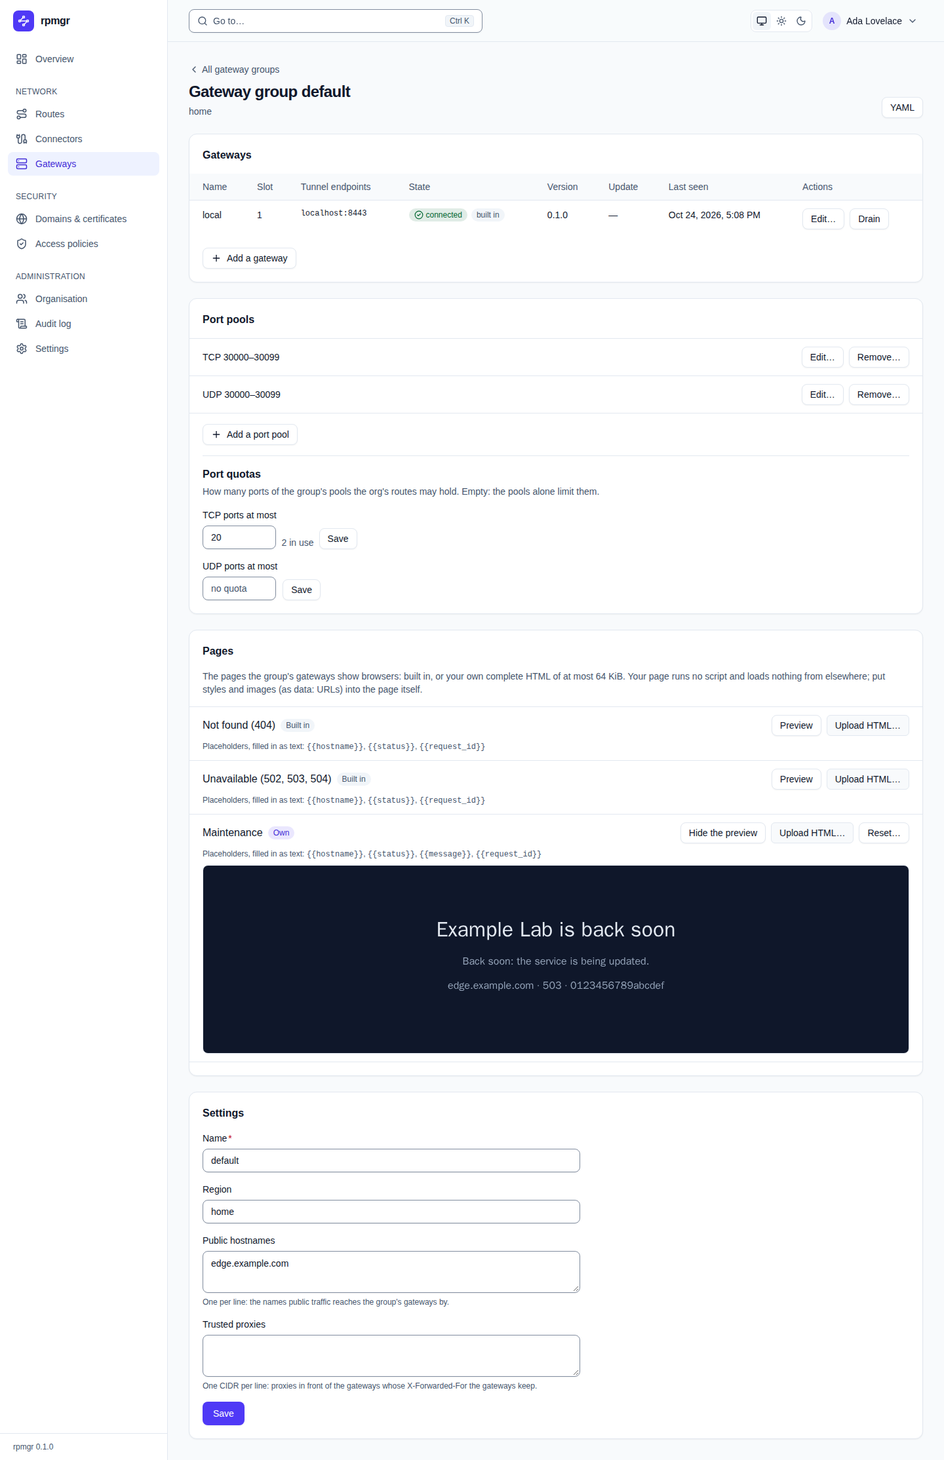
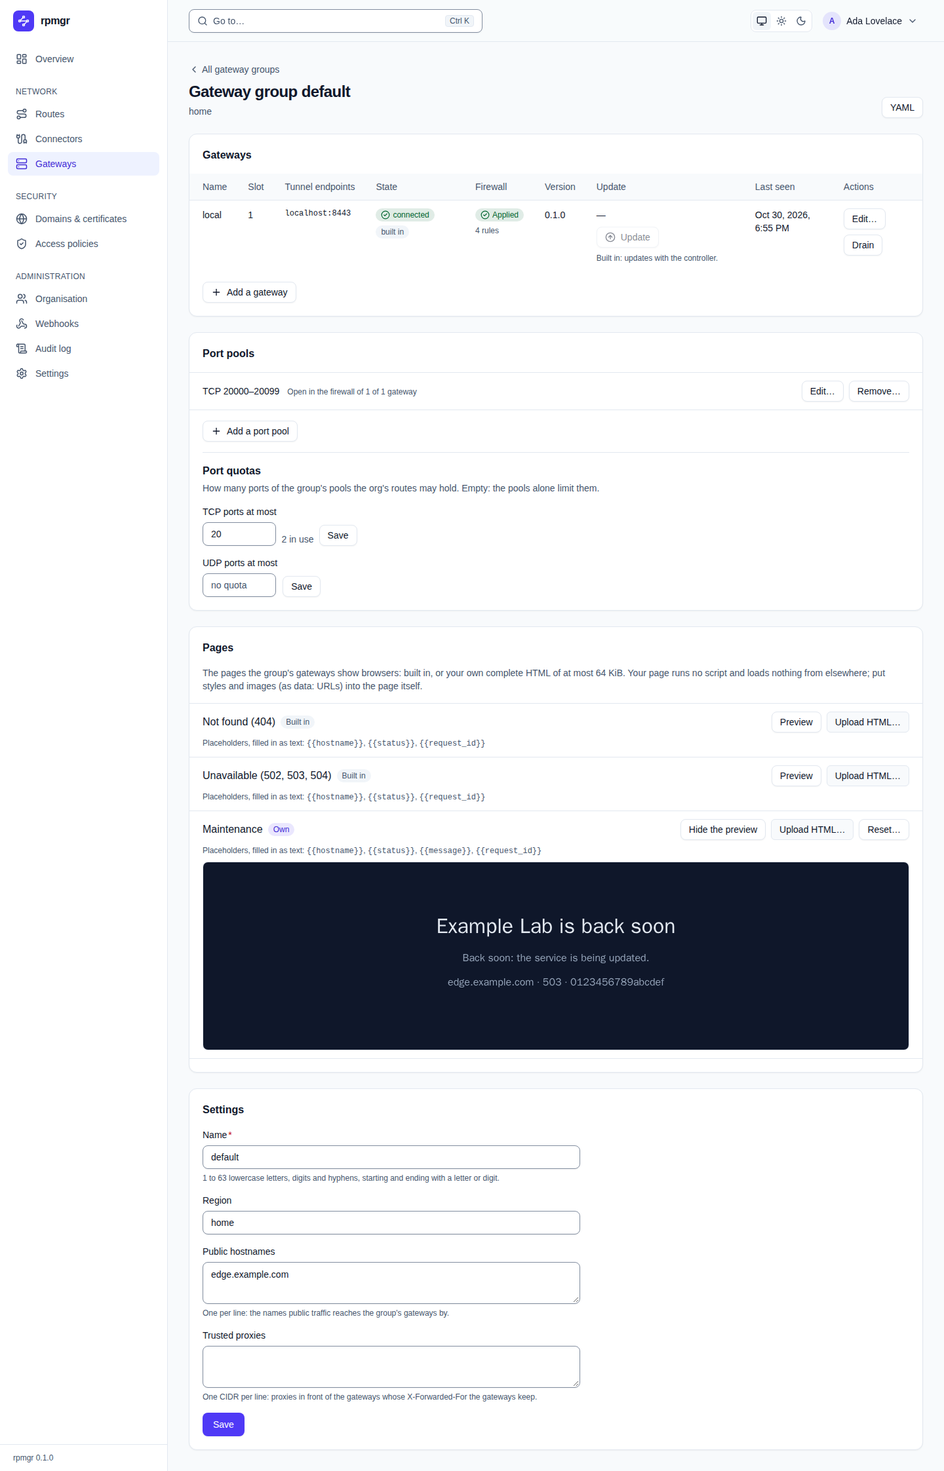
feat(web): show the firewall state of gateways and pools
The gateway group's page gets a Firewall column: off, applied with the
number of rules, or failed with the reason and the ports the helper
refused; a gateway that reports nothing is off, an offline one a dash.
Each port pool shows in how many of the gateways that manage their
firewall its range is open, read from their rules, which the helper
merges, so a pool counts as open when the rules together cover it. The
browser test checks the page with axe, the screenshot of the group
shows the new column.

Part of #968 (D152, slice 4).

diff --git a/web/src/pages/firewall.test.tsx b/web/src/pages/firewall.test.tsx
@@ -1,0 +1,112 @@
+// SPDX-License-Identifier: Apache-2.0
+
+import { timestampFromDate } from "@bufbuild/protobuf/wkt";
+import { cleanup, screen, within } from "@testing-library/react";
+import { afterEach, describe, expect, it } from "vitest";
+import { covers } from "@/components/firewall";
+import { FirewallState, GatewayService, PortProtocol } from "@/gen/rpmgr/v1/gateway_pb";
+import { StatusService } from "@/gen/rpmgr/v1/status_pb";
+import { Theme, UserService } from "@/gen/rpmgr/v1/user_pb";
+import { auth, show } from "@/testing/api";
+
+afterEach(cleanup);
+
+const reported = timestampFromDate(new Date("2026-10-30T10:00:00Z"));
+
+type Fake = { name: string; connected?: boolean; firewall?: { state?: FirewallState; reason?: string; rules?: string[]; refused?: string[] } };
+
+// group renders the page of the group eu, whose gateways report the given firewall states, and
+// whose pools are the TCP range 20000-20999 and the UDP range 30000-30099.
+function group(gateways: Fake[]) {
+  show("/gateways/ggr_eu", auth({
+    getSession: () => ({ userId: "usr_ada", instanceAdmin: false, memberships: [{ orgId: "org_1", role: "admin" }] }),
+  }), (router) => {
+    router.service(UserService, { getMe: () => ({ user: { id: "usr_ada", theme: Theme.SYSTEM } }) });
+    router.service(StatusService, { async *watchApplyStatus() {} });
+    router.service(GatewayService, {
+      listGatewayGroups: () => ({ gatewayGroups: [{ id: "ggr_eu", name: "eu" }] }),
+      listGateways: () => ({ gateways: gateways.map((g, i) => ({ id: `gtw_${i}`, gatewayGroupId: "ggr_eu", name: g.name, slot: i + 1, enabled: true,
+        status: { enrolled: true, connected: g.connected ?? true, firewall: g.firewall && { reportTime: reported, ...g.firewall } } })) }),
+      listPortPools: () => ({ portPools: [
+        { id: "pp_1", gatewayGroupId: "ggr_eu", protocol: PortProtocol.TCP, portFrom: 20000, portTo: 20999 },
+        { id: "pp_2", gatewayGroupId: "ggr_eu", protocol: PortProtocol.UDP, portFrom: 30000, portTo: 30099 },
+      ] }),
+      listPortQuotas: () => ({ portQuotas: [] }),
+    });
+  });
+}
+
+// cells returns the text of the firewall cell of each gateway row.
+async function firewallCells() {
+  const table = await screen.findByRole("table");
+  const col = within(table).getAllByRole("columnheader").findIndex((h) => h.textContent === "Firewall");
+  expect(col).toBeGreaterThan(-1);
+  return within(table).getAllByRole("row").slice(1).map((r) => within(r).getAllByRole("cell")[col]!.textContent);
+}
+
+describe("The firewall of a gateway host", () => {
+  it("shows off, applied and failed with the reason and the refused ports", async () => {
+    group([
+      { name: "gw-off", firewall: { state: FirewallState.OFF, reason: "switched off; ufw is not installed" } },
+      { name: "gw-ok", firewall: { state: FirewallState.APPLIED, rules: ["80/tcp", "443/tcp", "443/udp", "20000:20999/tcp"] } },
+      { name: "gw-bad", firewall: { state: FirewallState.FAILED, reason: "ufw is inactive; nothing was changed", refused: ["22/tcp"] } },
+    ]);
+    expect(await firewallCells()).toEqual([
+      "Offswitched off; ufw is not installed",
+      "Applied4 rules",
+      "Failedufw is inactive; nothing was changedRefused, outside the bounds: 22/tcp",
+    ]);
+  });
+
+  it("shows a gateway that reports nothing as off, and an offline one as a dash", async () => {
+    group([{ name: "gw-plain" }, { name: "gw-away", connected: false }, { name: "gw-new", firewall: { state: FirewallState.UNSPECIFIED } }]);
+    expect(await firewallCells()).toEqual(["Off", "—", "Not reported"]);
+  });
+
+  it("shows a state this release does not know as not reported, not as a state it never had", async () => {
+    group([{ name: "gw-future", firewall: { state: 99 as FirewallState } }]);
+    expect(await firewallCells()).toEqual(["Not reported"]);
+  });
+
+  it("tells for each pool in how many managing gateways its range is open", async () => {
+    group([
+      // Pools may be adjacent, so the helper holds one merged rule: the pool is open when the rules cover it.
+      { name: "gw-1", firewall: { state: FirewallState.APPLIED, rules: ["80/tcp", "20000:20499/tcp", "20500:20999/tcp", "30000:30099/udp"] } },
+      { name: "gw-2", firewall: { state: FirewallState.FAILED, reason: "ufw is inactive", rules: ["20000:20499/tcp"] } },
+      { name: "gw-3", firewall: { state: FirewallState.OFF } },
+      { name: "gw-4" },
+    ]);
+    const pools = within(await screen.findByRole("region", { name: "Port pools" }));
+    const rows = await pools.findAllByRole("listitem");
+    expect(rows.map((r) => r.textContent?.replace(/(Edit…|Remove…)/g, ""))).toEqual([
+      "TCP 20000–20999Open in the firewall of 1 of 2 gateways",
+      "UDP 30000–30099Open in the firewall of 1 of 2 gateways",
+    ]);
+  });
+
+  it("says nothing of the firewall for pools when no gateway manages one", async () => {
+    group([{ name: "gw-1" }, { name: "gw-2", firewall: { state: FirewallState.OFF } }]);
+    const pools = within(await screen.findByRole("region", { name: "Port pools" }));
+    const rows = await pools.findAllByRole("listitem");
+    expect(rows.some((r) => /firewall/.test(r.textContent ?? ""))).toBe(false);
+  });
+});
+
+describe("covers", () => {
+  it("reads the rules as ufw names them", () => {
+    expect(covers(["80/tcp"], "tcp", 80, 80)).toBe(true);
+    expect(covers(["80/tcp"], "udp", 80, 80)).toBe(false);
+    expect(covers(["20000:20999/tcp"], "tcp", 20000, 20999)).toBe(true);
+    expect(covers(["20000:20999/tcp"], "tcp", 20000, 21000)).toBe(false);
+    expect(covers(["20001:20999/tcp"], "tcp", 20000, 20999)).toBe(false);
+  });
+  it("joins rules that touch or overlap, in any order, and not those with a gap", () => {
+    expect(covers(["20500:20999/tcp", "20000:20499/tcp"], "tcp", 20000, 20999)).toBe(true);
+    expect(covers(["20000:20600/tcp", "20500:20999/tcp"], "tcp", 20000, 20999)).toBe(true);
+    expect(covers(["20000:20498/tcp", "20500:20999/tcp"], "tcp", 20000, 20999)).toBe(false);
+  });
+  it("ignores what is no rule of the helper", () => {
+    expect(covers([], "tcp", 1, 1)).toBe(false);
+    expect(covers(["Anywhere", "20000-20999/tcp", "::/0", "x:y/tcp", ""], "tcp", 20000, 20999)).toBe(false);
+  });
+});

diff --git a/web/src/components/firewall.tsx b/web/src/components/firewall.tsx
@@ -1,0 +1,74 @@
+// SPDX-License-Identifier: Apache-2.0
+
+import { useTranslation } from "react-i18next";
+import { Status, type Look } from "@/components/status";
+import { FirewallState, type FirewallStatus, type Gateway } from "@/gen/rpmgr/v1/gateway_pb";
+
+// The look of each state the gateway reports of its host's firewall (docs/09-web-ui.md, U8).
+const looks: Record<FirewallState, [Look, string]> = {
+  [FirewallState.UNSPECIFIED]: ["unknown", "unknown"],
+  [FirewallState.OFF]: ["off", "off"],
+  [FirewallState.APPLIED]: ["ok", "applied"],
+  [FirewallState.FAILED]: ["failed", "failed"],
+};
+
+// FirewallChip shows the state of a gateway host's firewall management as the gateway last reported
+// it: off, applied, or failed with the reason and the ports the helper refused (D152). A gateway
+// that reports nothing is off, as one that does not manage its firewall is; an offline one is a dash.
+export function FirewallChip({ gateway: g }: { gateway: Gateway }) {
+  const { t } = useTranslation();
+  const f = g.status?.firewall;
+  if (!f) {
+    return g.status?.connected ? <Status look="off">{t("firewall.off")}</Status> : <span aria-label={t("firewall.unknown")}>—</span>;
+  }
+  const [look, key] = looks[f.state] ?? looks[FirewallState.UNSPECIFIED];
+  return (
+    <span className="grid gap-1">
+      <span><Status look={look}>{t(`firewall.${key}`)}</Status></span>
+      {f.state === FirewallState.APPLIED && f.rules.length > 0 && (
+        <span className="text-xs text-muted-foreground" title={f.rules.join(", ")}>{t("firewall.rules", { count: f.rules.length })}</span>
+      )}
+      {f.reason && <span className="max-w-72 text-xs text-muted-foreground">{f.reason}</span>}
+      {f.refused.length > 0 && <span className="text-xs text-muted-foreground">{t("firewall.refused", { ports: f.refused.join(", ") })}</span>}
+    </span>
+  );
+}
+
+// covers tells whether the rules the helper holds, as ufw names them ("80/tcp", "20000:20099/udp"),
+// open every port from..to of protocol: the helper merges the ranges of its pools, so a pool is
+// open when the rules together cover it, not when one rule names it.
+export function covers(rules: readonly string[], protocol: "tcp" | "udp", from: number, to: number): boolean {
+  const spans: [number, number][] = [];
+  for (const r of rules) {
+    const m = /^(\d+)(?::(\d+))?\/(tcp|udp)$/.exec(r);
+    if (m && m[3] === protocol) spans.push([Number(m[1]), Number(m[2] ?? m[1])]);
+  }
+  spans.sort((a, b) => a[0] - b[0]);
+  let next = from;
+  for (const [a, b] of spans) {
+    if (a > next) break;
+    next = Math.max(next, b + 1);
+    if (next > to) return true;
+  }
+  return next > to;
+}
+
+// managing returns the gateways that report their firewall as applied or failed: those that hand
+// their ufw to rpmgr and have heard of the helper.
+export function managing(gateways: readonly Gateway[]): Gateway[] {
+  return gateways.filter((g) => g.status?.firewall && g.status.firewall.state !== FirewallState.OFF && g.status.firewall.state !== FirewallState.UNSPECIFIED);
+}
+
+// PoolFirewall says on how many of a group's gateways that manage their firewall a pool's range is
+// open now; nothing if none does.
+export function PoolFirewall({ protocol, from, to, gateways }: { protocol: "tcp" | "udp"; from: number; to: number; gateways: readonly Gateway[] }) {
+  const { t } = useTranslation();
+  const managed = managing(gateways);
+  if (managed.length === 0) return null;
+  const open = managed.filter((g) => covers((g.status?.firewall as FirewallStatus).rules, protocol, from, to)).length;
+  return (
+    <span className="text-xs text-muted-foreground">
+      {t("firewall.poolOpen", { open, count: managed.length })}
+    </span>
+  );
+}

diff --git a/web/src/pages/port-pools.tsx b/web/src/pages/port-pools.tsx
@@ -8,9 +8,10 @@ import { useState, type FormEvent } from "react";
 import { useTranslation } from "react-i18next";
 import { Alert } from "@/components/public-page";
 import { Button } from "@/components/ui/button";
+import { PoolFirewall } from "@/components/firewall";
 import { Card } from "@/components/ui/card";
 import { Input, Select } from "@/components/ui/input";
-import { GatewayService, PortPoolSchema, PortProtocol, type PortPool, type PortQuota } from "@/gen/rpmgr/v1/gateway_pb";
+import { GatewayService, PortPoolSchema, PortProtocol, type Gateway, type PortPool, type PortQuota } from "@/gen/rpmgr/v1/gateway_pb";
 import { apiError } from "@/lib/api-error";
 
 const protocols = [PortProtocol.TCP, PortProtocol.UDP];
@@ -18,7 +19,7 @@ const protocols = [PortProtocol.TCP, PortProtocol.UDP];
 // PortPools shows a group's port pools, from which TCP and UDP routes get their public ports, and
 // the org's port quotas in the group; it adds, changes and removes them (docs/09-web-ui.md,
 // "Gateways"). Without a quota, the pools alone limit the org.
-export function PortPools({ orgId, groupId }: { orgId: string; groupId: string }) {
+export function PortPools({ orgId, groupId, gateways = [] }: { orgId: string; groupId: string; gateways?: readonly Gateway[] }) {
   const { t } = useTranslation();
   const pools = useQuery(GatewayService.method.listPortPools, { orgId, gatewayGroupId: groupId, pageSize: 500 });
   const quotas = useQuery(GatewayService.method.listPortQuotas, { orgId, gatewayGroupId: groupId, pageSize: 500 });
@@ -27,7 +28,7 @@ export function PortPools({ orgId, groupId }: { orgId: string; groupId: string }
     <Card title={t("pools.title")}>
       {(pools.data?.portPools.length ?? 0) > 0 && (
         <ul className="-mx-5 divide-y divide-border border-y border-border">
-          {(pools.data?.portPools ?? []).map((p) => <PoolRow key={p.id} pool={p} />)}
+          {(pools.data?.portPools ?? []).map((p) => <PoolRow key={p.id} pool={p} gateways={gateways} />)}
         </ul>
       )}
       {pools.data?.portPools.length === 0 && <p className="text-sm text-muted-foreground">{t("pools.none")}</p>}
@@ -98,7 +99,7 @@ function PoolForm({ orgId, groupId, pool, onDone }: { orgId: string; groupId: st
   );
 }
 
-function PoolRow({ pool: p }: { pool: PortPool }) {
+function PoolRow({ pool: p, gateways }: { pool: PortPool; gateways: readonly Gateway[] }) {
   const { t } = useTranslation();
   const remove = useMutation(GatewayService.method.deletePortPool);
   const queryClient = useQueryClient();
@@ -110,7 +111,10 @@ function PoolRow({ pool: p }: { pool: PortPool }) {
   }
   return (
     <li className="flex flex-wrap items-center gap-2 px-5 py-3 text-sm">
-      <span className="mr-auto font-medium tabular-nums">{name}</span>
+      <span className="mr-auto flex flex-wrap items-baseline gap-x-3">
+        <span className="font-medium tabular-nums">{name}</span>
+        <PoolFirewall protocol={p.protocol === PortProtocol.UDP ? "udp" : "tcp"} from={p.portFrom} to={p.portTo} gateways={gateways} />
+      </span>
       {mode === "ask" ? (
         <>
           {t("pools.ask", { name })}

diff --git a/web/src/pages/gateways.tsx b/web/src/pages/gateways.tsx
@@ -14,6 +14,7 @@ import { Field } from "@/components/field";
 import { LinesField, trimmed } from "@/components/lines-field";
 import { canStreamLogs, LiveLogButton } from "@/components/live-log";
 import { DrainingLine } from "@/components/draining";
+import { FirewallChip } from "@/components/firewall";
 import { ManifestButton } from "@/components/manifest";
 import { PageHeader } from "@/components/page-header";
 import { Alert } from "@/components/public-page";
@@ -193,7 +194,7 @@ export function GatewayGroupPage() {
         {members.length === 0 ? <p className="text-sm text-muted-foreground">{t("gateways.noGateways")}</p> : (
           <Table framed={false}>
             <THead>
-              <tr>{["name", "slot", "endpoints", "state", "version", "update", "lastSeen", "actions"].map((c) => <TH key={c}>{t(`gateways.gw.${c}`)}</TH>)}</tr>
+              <tr>{["name", "slot", "endpoints", "state", "firewall", "version", "update", "lastSeen", "actions"].map((c) => <TH key={c}>{t(`gateways.gw.${c}`)}</TH>)}</tr>
             </THead>
             <tbody>
               {members.map((g) => (
@@ -205,6 +206,7 @@ export function GatewayGroupPage() {
                     {g.wssHostname && <div className="text-muted-foreground">{t("gateways.gw.wssValue", { name: g.wssHostname })}</div>}
                   </TD>
                   <TD><GatewayChip gateway={g} /></TD>
+                  <TD><FirewallChip gateway={g} /></TD>
                   <TD>{g.status?.version}</TD>
                   <TD>
                     <span className="flex flex-wrap items-center gap-2">
@@ -238,7 +240,7 @@ export function GatewayGroupPage() {
           <Button size="sm" variant="outline" className="justify-self-start" onClick={() => setEditing("new")}><Plus aria-hidden="true" />{t("gwActions.addButton")}</Button>
         )}
       </Card>
-      <PortPools orgId={org.orgId} groupId={group.id} />
+      <PortPools orgId={org.orgId} groupId={group.id} gateways={members} />
       <GatewayPages groupId={group.id} onDone={(w) => void done(w)} />
       <Card title={t("gateways.settings")}>
         <GroupForm key={group.etag} orgId={org.orgId} group={group} />

diff --git a/web/e2e/sign-in.spec.ts b/web/e2e/sign-in.spec.ts
@@ -197,6 +197,29 @@ test("signs in, creates an API token with a step-up, sets up an authenticator an
   await expectAccessible(page);
   await policyForm.getByRole("button", { name: "Cancel" }).click();
 
+  // The firewall column of a gateway group's page (D152): the instance has no gateway that hands
+  // its ufw to rpmgr, so the three states are made up on top of the real list, each on a copy of the
+  // group's gateway. The page, with them and with the pools' lines, stays accessible.
+  const fakeFirewalls = [
+    { state: "FIREWALL_STATE_APPLIED", rules: ["80/tcp", "443/tcp", "443/udp"] },
+    { state: "FIREWALL_STATE_FAILED", reason: "ufw is inactive; nothing was changed", refused: ["22/tcp"] },
+    { state: "FIREWALL_STATE_OFF", reason: "switched off; ufw is not installed" },
+  ];
+  const listed = page.waitForResponse("**/rpmgr.v1.GatewayService/ListGateways");
+  await page.goto("/gateways");
+  const real = (await (await listed).json()) as { gateways: { status?: object }[] };
+  await page.route("**/rpmgr.v1.GatewayService/ListGateways", (route) => route.fulfill({ json: { gateways: [
+    ...real.gateways,
+    ...fakeFirewalls.map((firewall, i) => ({ ...real.gateways[0], id: `gtw_fake${i}`, name: `fw-${i + 1}`, slot: 10 + i, status: { ...real.gateways[0]!.status, firewall } })),
+  ] } }));
+  await page.getByRole("link", { name: "default", exact: true }).click();
+  const gatewayRows = page.getByRole("region", { name: "Gateways" }).getByRole("row");
+  await expect(gatewayRows.filter({ hasText: "fw-1" })).toContainText("Applied3 rules");
+  await expect(gatewayRows.filter({ hasText: "fw-2" })).toContainText("Failedufw is inactive; nothing was changedRefused, outside the bounds: 22/tcp");
+  await expect(gatewayRows.filter({ hasText: "fw-3" })).toContainText("Offswitched off; ufw is not installed");
+  await expectAccessible(page);
+  await page.unroute("**/rpmgr.v1.GatewayService/ListGateways");
+
   // On a wide screen every page fills the window beside the sidebar, and the route form stands in
   // two columns, which a phone stacks.
   const desktop = page.viewportSize()!;

diff --git a/web/screens/screens.spec.ts b/web/screens/screens.spec.ts
@@ -199,11 +199,22 @@ test("screenshots of the user guide", async ({ page, browser }) => {
   // Gateways.
   await open(page, "Gateways", "Gateway groups");
   await shot(page, "gateways");
+  // The instance has no gateway that hands its ufw to rpmgr and no port pool: the group's gateway
+  // reports an applied firewall and the group has one made-up pool, as the page shows them.
+  const listed = page.waitForResponse("**/rpmgr.v1.GatewayService/ListGateways");
+  await page.reload();
+  const real = (await (await listed).json()) as { gateways: { status?: object }[] };
+  const firewall = { state: "FIREWALL_STATE_APPLIED", reportTime: new Date().toISOString(), rules: ["80/tcp", "443/tcp", "443/udp", "20000:20099/tcp"] };
+  await page.route("**/rpmgr.v1.GatewayService/ListGateways", (route) => route.fulfill({ json: { gateways: real.gateways.map((g) => ({ ...g, status: { ...g.status, firewall } })) } }));
+  await page.route("**/rpmgr.v1.GatewayService/ListPortPools", (route) => route.fulfill({ json: { portPools: [
+    { id: "pp_demo", gatewayGroupId: new URL(page.url()).pathname.split("/").pop(), protocol: "PORT_PROTOCOL_TCP", portFrom: 20000, portTo: 20099 }] } }));
   await page.getByRole("link", { name: "default", exact: true }).click();
   await expect(page.getByRole("heading", { name: "Gateway group default", level: 1 })).toBeVisible();
   await page.getByRole("listitem", { name: "Maintenance" }).getByRole("button", { name: "Preview" }).click();
   await page.waitForTimeout(1000);
   await shot(page, "gateway-group", true);
+  await page.unroute("**/rpmgr.v1.GatewayService/ListGateways");
+  await page.unroute("**/rpmgr.v1.GatewayService/ListPortPools");
 
   // Security and administration.
   await open(page, "Domains & certificates", "Domains & certificates");

diff --git a/web/src/pages/gateways.test.tsx b/web/src/pages/gateways.test.tsx
@@ -92,9 +92,9 @@ describe("Gateways", () => {
     expect(await screen.findByRole("heading", { name: "Gateway group eu" })).toBeTruthy();
     const members = within(screen.getByRole("region", { name: "Gateways" }));
     await waitFor(() => expect(members.getAllByRole("row").slice(1).map((r) => r.textContent)).toEqual([
-      "gw-eu-11198.51.100.1:443connected0.1.0—Edit…DrainDecommission…Live log…", // the badges' icons are drawings, hidden from screen readers
-      "gw-eu-22198.51.100.2:443offlinedrained—Edit…ResumeDecommission…Live log…",
-      "gw-eu-33not enrolled—Edit…DrainEnrollment token…Decommission…Live log…",
+      "gw-eu-11198.51.100.1:443connectedOff0.1.0—Edit…DrainDecommission…Live log…", // the badges' icons are drawings, hidden from screen readers; the firewall is Off while connected, else a dash
+      "gw-eu-22198.51.100.2:443offlinedrained——Edit…ResumeDecommission…Live log…",
+      "gw-eu-33not enrolled——Edit…DrainEnrollment token…Decommission…Live log…",
     ]));
     const form = within(screen.getByRole("form", { name: "Settings" }));
     fireEvent.change(form.getByLabelText("Trusted proxies"), { target: { value: "10.0.0.0/8\n192.168.0.0/16" } });

diff --git a/docs/09-web-ui.md b/docs/09-web-ui.md
@@ -522,10 +522,11 @@ one page, with a section list beside them that jumps to each section
   are connected. A new group is created there, and the page then opens it. Without groups, the
   page offers to create the first.
 - **A group's page** has a link back to the groups above its title. It lists its gateways by slot,
-  with their tunnel endpoints, state (not enrolled, connected or offline, and drained), version and
-  last contact. It also edits the group's name, region, public hostnames and trusted proxies, as
-  the whole group as read with their mask and the etag (U1). If the group changed since the page
-  read it, the form says so.
+  with their tunnel endpoints, state (not enrolled, connected or offline, and drained), the state of
+  the host's firewall management when the gateway reports one (off, applied or failed, D152),
+  version and last contact. It also edits the group's name, region, public hostnames and trusted
+  proxies, as the whole group as read with their mask and the etag (U1). If the group changed since
+  the page read it, the form says so.
 - **Gateway actions** on a group's page:
   - **Add a gateway** with its name and its own tunnel endpoints. A group has at most four; the
     server says so.
@@ -544,6 +545,9 @@ one page, with a section list beside them that jumps to each section
 - **Port pools and quotas** on a group's page:
   - the group's TCP and UDP port pools, from which TCP and UDP routes get their public ports;
   - a pool is added, its range changed, or removed after a confirmation that names it;
+  - beside each pool, in how many of the group's gateways that hand their `ufw` to rpmgr its range
+    is open now, read from the rules each reports; nothing when none does
+    ([D152](14-open-decisions.md#engineering));
   - a range is checked first: 1 to 65535, the first port no larger than the last;
   - per protocol, the org's quota of the group's ports, with how many are in use. An empty quota is
     removed, so that the pools alone limit the org.

diff --git a/docs/guide/web-ui/gateways.md b/docs/guide/web-ui/gateways.md
@@ -47,6 +47,7 @@ The **Gateways** card lists the group's gateways by slot:
 | **Slot** | Its number within the group |
 | **Tunnel endpoints** | The `host:port` addresses where connectors reach this gateway, and below them `WSS:` and its WSS hostname if it has one ([Gateways](../gateways.md#wss-hostnames)) |
 | **State** | `not enrolled`, `connected` or `offline`; also `drained` for a drained gateway and `built in` for the all-in-one's own gateway |
+| **Firewall** | Whether rpmgr manages the host's `ufw` for this gateway and how that stands: `Off` (not switched on, or the helper says it is off; a gateway that reports nothing is `Off` while it is connected, and an offline one shows a dash), `Applied` with the number of rules, or `Failed` with the reason and the ports the helper refused as outside its bounds ([Gateways](../gateways.md#the-hosts-firewall)). Hover over the number of rules to read them |
 | **Version** | The rpmgr version the gateway runs |
 | **Update** | Its state in the running rollout, or that it is below the oldest version the controller accepts; for an Instance Admin also **Update to …**, or why it cannot be updated now ([Updates](../operations/updates.md#update-one-agent)) |
 | **Last seen** | When the controller last heard from it |
@@ -88,6 +89,10 @@ TCP and UDP routes get their public ports. Without a pool, such routes get no pu
   **Add the pool** adds it. Ports are 1 to 65535, the first no larger than the last.
 - **Edit…** changes a pool's range; its protocol stays.
 - **Remove…** asks `Remove the pool …?`; **Remove it** removes it.
+- Beside each pool, `Open in the firewall of 1 of 2 gateways` says in how many of the group's
+  gateways that hand their `ufw` to rpmgr the pool's range is open now. It is left out while no
+  gateway of the group does, and a pool that is open in fewer than all of them points at the
+  gateway whose **Firewall** column says why.
 
 ### Port quotas
 
